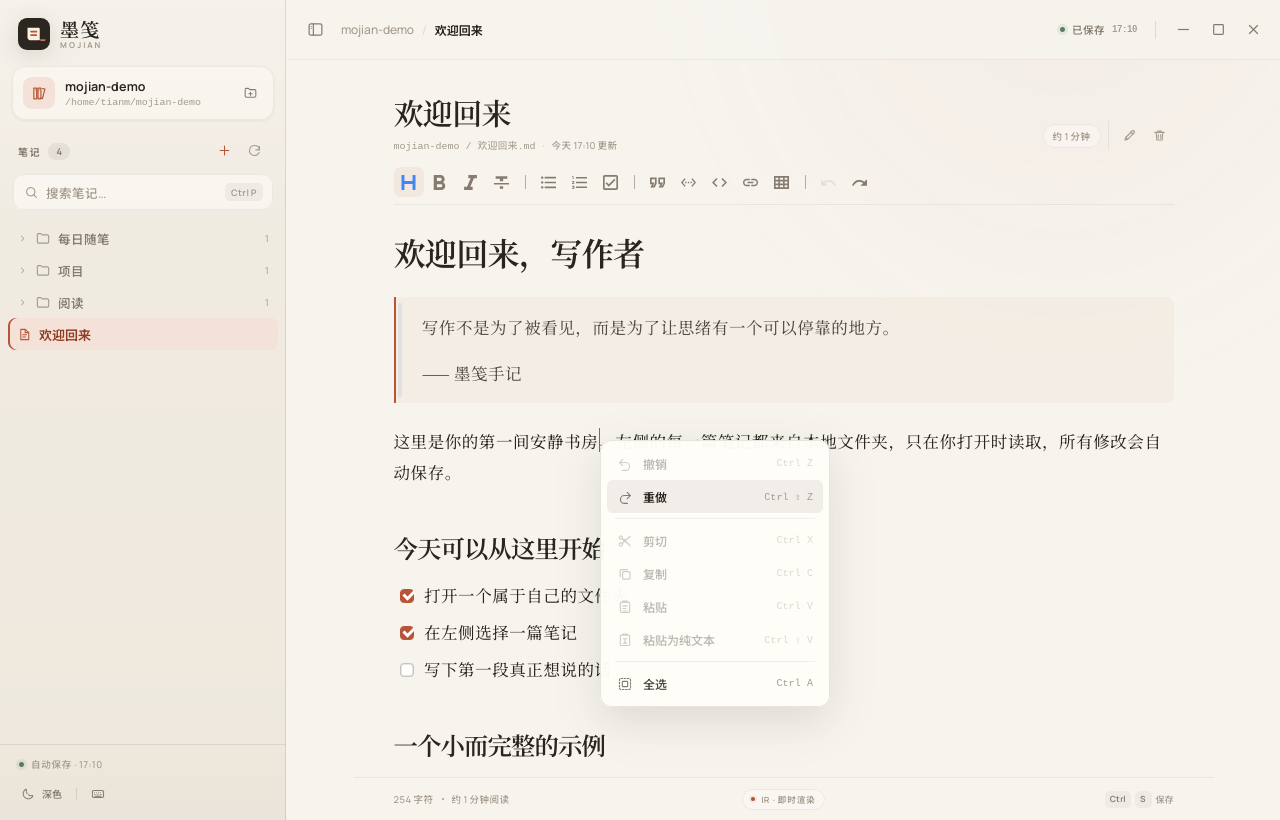
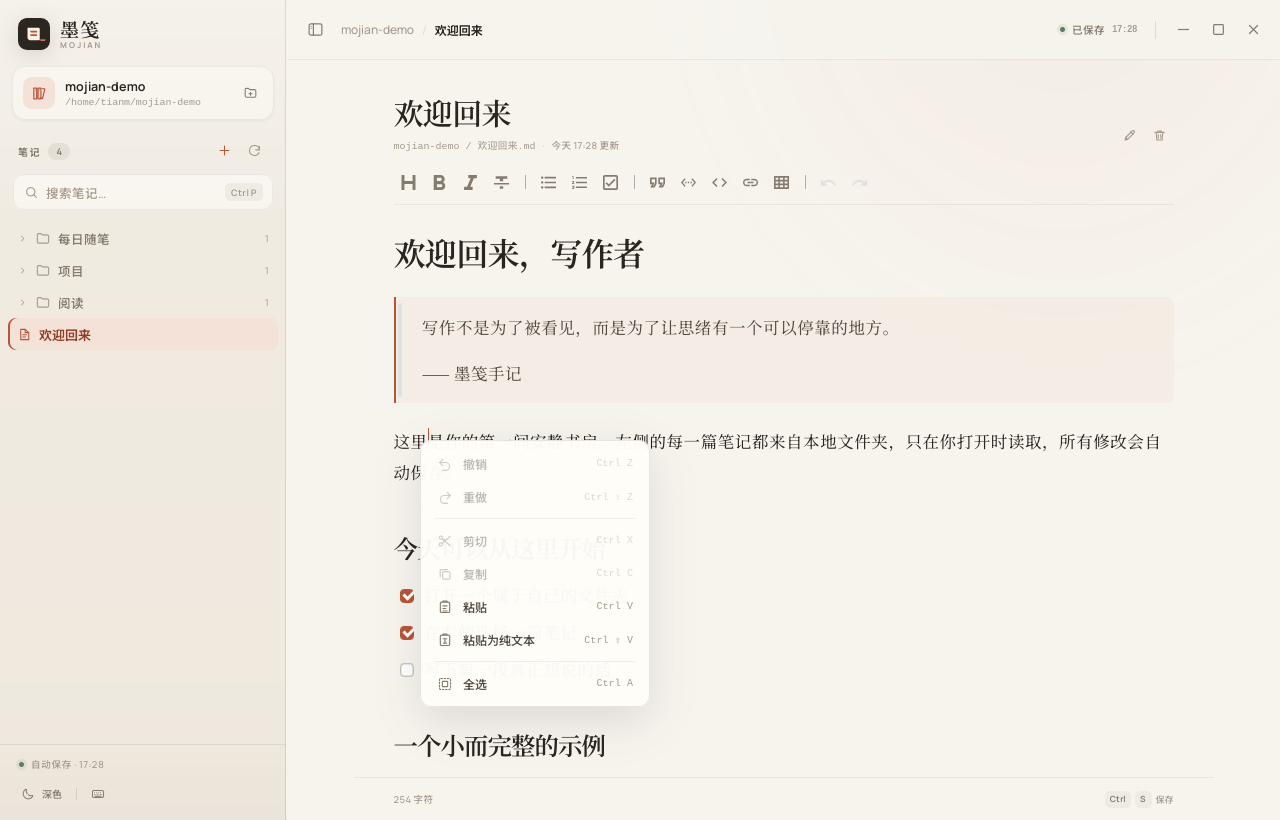
docs: refresh screenshots for streamlined editor chrome
- capture the editor header and footer without reading-time chrome
- refresh light, dark, context-menu, and library menu screenshots
- update the format helper description

diff --git a/README.md b/README.md
@@ -131,7 +131,7 @@ cargo test
 │       ├── clipboard.ts          # 系统剪贴板纯文本读写（Tauri 插件 / Web API 回退）
 │       ├── editor.ts             # Vditor IR 配置与主题同步
 │       ├── file-tree.ts          # 笔记 + 文件夹路径 → 文件夹树 / 搜索
-│       ├── format.ts             # 时间、字数、阅读时长
+│       ├── format.ts             # 时间、字符统计
 │       └── storage.ts            # 主题、最近打开、侧边栏状态等本地偏好
 ├── src-tauri/
 │   ├── src/lib.rs                # Tauri 入口、命令注册、工作区状态
